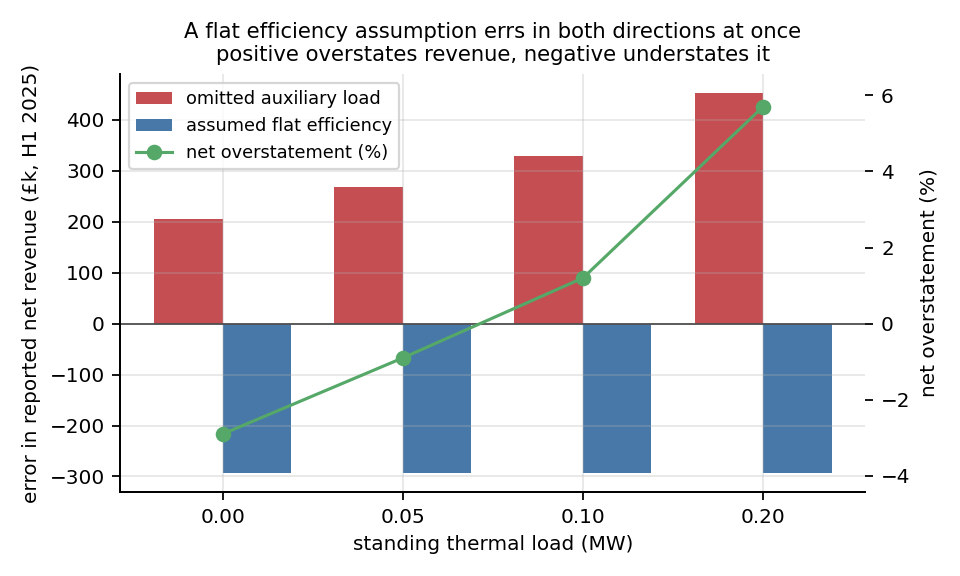
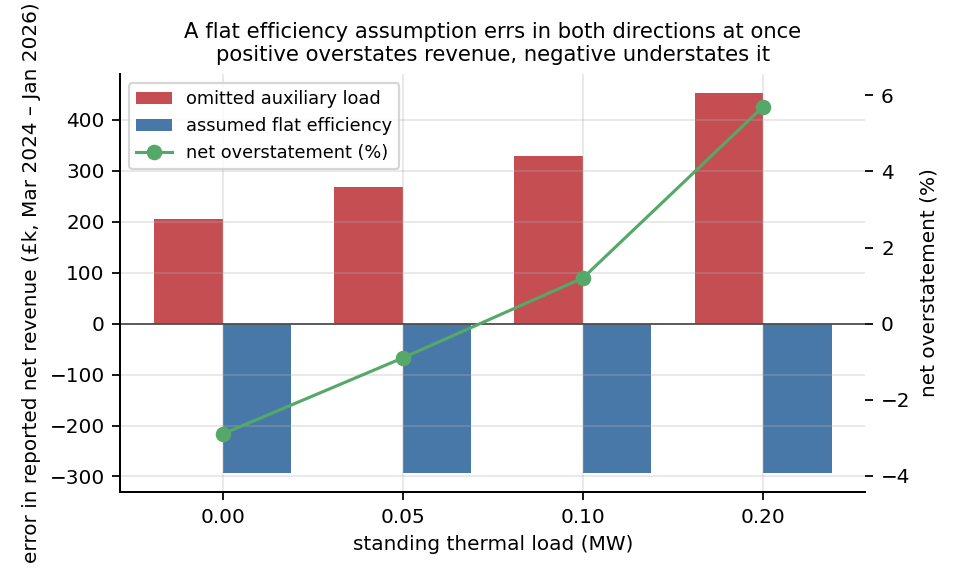
review: observation duration enters the anchor, and the artefacts a changed conclusion leaves
A fresh full review found one substantive omission and one overstated convention, plus
eight places where retracted conclusions were still being asserted.

The German field case was observed for eight years; the anchor used a three-year default.
Under linear ageing that distinction was bookkeeping. Under the power law it is an input:
3 %/yr sustained for eight years is more damage than the model can produce in three, so
the anchor must scale up rather than down, and that row's wear price moves from 15.96 to
20.23 GBP/MWh. Finding 1 widens from 42-59 % to 42-78 %, and the table's lesson sharpens:
the published loss rate barely matters (the Italian and EPRI rows coincide to pennies),
the observation window now does. This also restores provenance to the headline band's
upper point, which had been a hard-coded 20.30 labelled EPRI - a label that silently
expired when the anchoring changed underneath it. The band's second point is now derived
in code from the German eight-year record, and its gross-to-net capture ratio is computed
(1.54) rather than approximated (the 1.60 previously quoted mixed bases).

The declining wear price is reframed as the convention it is. Pricing the capacity each
cycle consumes gives a marginal cost that falls over life; pricing each cycle as an equal
share of the discounted replacement - the natural convention when end of life is a
threshold - gives a constant 11.17, or 14.26 net of calendar fade's claim on the usable
[…]

diff --git a/scripts/make_figures.py b/scripts/make_figures.py
@@ -45,7 +45,7 @@ def fig_waterfall():
     ax.set_ylim(0, steps[0][1] * 1.15)
     ax.set_xticks(range(len(steps)))
     ax.set_xticklabels([s[0] for s in steps], fontsize=8)
-    ax.set_ylabel("£ over 2024–2025")
+    ax.set_ylabel("£ over the 22 months to Jan 2026")
     ax.set_title("What a perfect-foresight number hides\n50 MW / 100 MWh, GB wholesale",
                  fontsize=9.5)
     fig.tight_layout(); fig.savefig(FIG / "waterfall.png"); plt.close(fig)
@@ -99,7 +99,7 @@ def fig_degradation():
     ax.set_xticks(list(x))
     ax.set_xticklabels([s.replace(" field-anchored", "\nfield-anchored").replace(
         "no degradation cost", "ignored") for s in v0.scenario], fontsize=7.5)
-    ax.set_ylabel("net revenue over Q1 2025 (£k)")
+    ax.set_ylabel("net revenue, Mar 2024 – Jan 2026 (£k)")
     ax2.set_ylabel("equivalent full cycles / yr")
     ax.set_title("Pricing degradation changes revenue and behaviour", fontsize=9.5)
     h1, l1 = ax.get_legend_handles_labels(); h2, l2 = ax2.get_legend_handles_labels()
@@ -132,7 +132,7 @@ def fig_efficiency_error():
     ax.set_xticks(list(x))
     ax.set_xticklabels([f"{h:.2f}" for h in v3.hvac_MW])
     ax.set_xlabel("standing thermal load (MW)")
-    ax.set_ylabel("error in reported net revenue (£k, H1 2025)")
+    ax.set_ylabel("error in reported net revenue (£k, Mar 2024 – Jan 2026)")
     ax2.set_ylabel("net overstatement (%)")
     ax.set_title("A flat efficiency assumption errs in both directions at once\n"
                  "positive overstates revenue, negative understates it", fontsize=9.5)
@@ -143,7 +143,7 @@ def fig_efficiency_error():
 
 
 def fig_service_cdeg():
-    """Pricing wear by service decides market entry, not just bookkeeping."""
+    """What pricing wear by service changes about reserve participation."""
     v4 = pd.read_csv(RES / "v4_service_cdeg.csv")
     flat = v4[v4.ageing_ratio == 1.0].sort_values("fr_price")
     diff = v4[v4.ageing_ratio == 1.85].sort_values("fr_price")
@@ -153,16 +153,24 @@ def fig_service_cdeg():
            color="#8172b2", label="one degradation cost for all energy")
     ax.bar([i + 0.19 for i in x], diff.mean_reserve_MW, width=0.38,
            color="#dd8452", label="wear priced by service (1.85×)")
-    # the point of the chart: at the lowest price one model refuses the market outright
-    ax.annotate("declines the\nmarket entirely", xy=(-0.19, 0.4), xytext=(-0.30, 14),
-                fontsize=7.5, ha="center", color="#8172b2",
-                arrowprops=dict(arrowstyle="->", color="#8172b2", lw=0.8))
+    # Annotate the outright-refusal case only when the data actually shows one. This
+    # text was once unconditional, and after a recalibration moved the single-cost bar
+    # from 0.0 to 20.3 MW the figure kept asserting a refusal that no longer existed.
+    if float(flat.mean_reserve_MW.iloc[0]) < 0.5:
+        ax.annotate("declines the\nmarket entirely", xy=(-0.19, 0.4), xytext=(-0.30, 14),
+                    fontsize=7.5, ha="center", color="#8172b2",
+                    arrowprops=dict(arrowstyle="->", color="#8172b2", lw=0.8))
     ax.set_xticks(list(x))
     ax.set_xticklabels([f"£{p:.0f}" for p in flat.fr_price])
     ax.set_xlabel("reserve availability price (£/MW/h)")
     ax.set_ylabel("mean reserve held (MW of 50)")
+    # The title must not outrun the data: at the current wear price both models
+    # participate, and only at a high enough wear price does participation itself flip.
+    flips = float(flat.mean_reserve_MW.iloc[0]) < 0.5
     ax.set_title("Whether the battery enters the reserve market at all\n"
-                 "depends on how its wear is priced", fontsize=9.5)
+                 "depends on how its wear is priced" if flips else
+                 "Pricing reserve wear at its measured lower ageing\n"
+                 "shifts capacity toward reserve and cuts cycling", fontsize=9.5)
     ax.legend(fontsize=8, loc="upper left")
     fig.tight_layout(); fig.savefig(FIG / "service_cdeg.png"); plt.close(fig)
     print("figures/service_cdeg.png")

diff --git a/scripts/v0_arbitrage.py b/scripts/v0_arbitrage.py
@@ -43,16 +43,21 @@ def main(start: str, end: str):
     # Italian plant reports both (356 EFC over three years to 95.88 % SoH). The German
     # and EPRI cases give a rate without a cycle count, so they enter as sensitivity
     # under an assumed 300 EFC/yr and are labelled as such rather than as calibration.
-    scenarios = [(None, None, "no degradation cost"),
-                 (0.0137, 118.7, "Italian field pair, 1.37 %/yr at 119 EFC"),
-                 (0.023, 300.0, "EPRI 2.3 %/yr, EFC assumed 300"),
-                 (0.03, 300.0, "German upper 3 %/yr, EFC assumed 300")]
-    for loss, efc, label in scenarios:
+    # Each anchor case carries its observation duration, because with sub-linear
+    # ageing the duration is a real input, not bookkeeping: the same 3 %/yr sustained
+    # for eight years implies more damage than the model can produce in three, so the
+    # anchor scale — and c_deg — moves with it. The German systems were observed for
+    # eight years (doi:10.5281/zenodo.12091223); the EPRI duration is an assumption.
+    scenarios = [(None, None, None, "no degradation cost"),
+                 (0.0137, 118.7, 3.0, "Italian field pair, 1.37 %/yr at 119 EFC"),
+                 (0.023, 300.0, 3.0, "EPRI 2.3 %/yr, EFC and 3-yr duration assumed"),
+                 (0.03, 300.0, 8.0, "German upper 3 %/yr over its 8-yr observation, EFC assumed 300")]
+    for loss, efc, yrs, label in scenarios:
         if loss is None:
             c_deg = 0.0
         else:
             dc = DegradationCost(cell_model="prismatic_250ah", field_annual_loss=loss,
-                                 field_efc_per_year=efc)
+                                 field_efc_per_year=efc, field_years=yrs)
             c_deg = dc.cost("arbitrage")
         cfg = DispatchConfig(c_deg_arbitrage=c_deg, allow_frequency=False,
                              )
@@ -89,6 +94,24 @@ def main(start: str, end: str):
         inputs.append({"variant": name,
                        "c_deg": round(DegradationCost(cell_model="prismatic_250ah", **kw)
                                       .cost("arbitrage"), 2)}) 
+    # The marginal-capacity convention used throughout is itself a choice, so the main
+    # alternative is computed rather than argued. Pricing each cycle as an equal share
+    # of the discounted replacement — the natural convention when end of life is a
+    # threshold — gives a *constant* c_deg; netting the calendar share of the usable
+    # window out of the cycle budget raises it. All three integrate to the same total
+    # over the asset's life; they differ only in when the cost is charged.
+    d0 = DegradationCost(cell_model="prismatic_250ah")
+    disc = d0.replacement_cost_per_mwh / (1 + d0.discount_rate) ** d0.expected_life_years
+    m0 = d0._model()
+    n_eol = d0.implied_cycle_life()
+    inputs.append({"variant": "convention: equal share of replacement per cycle (constant)",
+                   "c_deg": round(disc / (n_eol * d0.REF_DOD), 2)})
+    cal_life = (d0.anchor_factor() * m0.calendar_rate(d0.REF_T_KELVIN, 0.5)
+                * (d0.expected_life_years * 365.25) ** m0.p_cal)
+    k_anch = d0.anchor_factor() * m0.cycle_rate(d0.REF_DOD, d0.REF_C_RATE, d0.REF_T_KELVIN)
+    n_eff = ((max((1 - d0.eol_fraction) - cal_life, 1e-6)) / k_anch) ** (1.0 / m0.p_cyc)
+    inputs.append({"variant": "same, cycle budget net of calendar fade over the assumed life",
+                   "c_deg": round(disc / (n_eff * d0.REF_DOD), 2)})
     pd.DataFrame(inputs).to_csv(OUT / "v0_cdeg_inputs.csv", index=False)
     lo = min(x["c_deg"] for x in inputs)
     hi = max(x["c_deg"] for x in inputs)

diff --git a/scripts/v2_capture_rate.py b/scripts/v2_capture_rate.py
@@ -143,18 +143,31 @@ def main(start: str, end: str):
     # v0 uses are carried through here rather than left implied.
     print("\nheadline sensitivity to the degradation price")
     band = []
+    # The second point is the highest wear price a field case supports: the German
+    # systems' upper 3 %/yr sustained over their eight-year observation window. It is
+    # derived here from the same anchoring code as everything else, not hard-coded —
+    # an earlier version carried a number whose provenance had silently expired when
+    # the anchoring changed underneath it.
+    dc_hi = DegradationCost(cell_model="prismatic_250ah", field_annual_loss=0.03,
+                            field_efc_per_year=300.0, field_years=8.0)
     for label, c in (("Italian field pair", c_arb),
-                     ("EPRI 2.3 %/yr, EFC assumed 300", 20.30)):
+                     ("German upper 3 %/yr over 8-yr observation", dc_hi.cost("arbitrage"))):
         cfg_b = DispatchConfig(c_deg_arbitrage=c, allow_frequency=False)
         pf_b = backtest(base, batt, cfg_b, None)
         gb_b = backtest(base, batt, cfg_b, "fc_gbm")
+        cap_n = gb_b["revenue_net"] / pf_b["revenue_net"] * 100
+        cap_g = gb_b["revenue_energy"] / pf_b["revenue_energy"] * 100
         band.append({"scenario": label, "c_deg": round(c, 2),
                      "pf_gross_GBP": round(pf_b["revenue_energy"]),
+                     "gbm_gross_GBP": round(gb_b["revenue_energy"]),
                      "gbm_net_GBP": round(gb_b["revenue_net"]),
                      "overstatement_factor": round(pf_b["revenue_energy"] / gb_b["revenue_net"], 2),
-                     "capture_net_pct": round(gb_b["revenue_net"] / pf_b["revenue_net"] * 100, 1)})
+                     "capture_gross_pct": round(cap_g, 1),
+                     "capture_net_pct": round(cap_n, 1),
+                     "gross_to_net_capture_ratio": round(cap_g / cap_n, 2)})
         print(f"  c_deg {c:5.2f}  gross {pf_b['revenue_energy']:>11,.0f}  net {gb_b['revenue_net']:>10,.0f}"
-              f"  factor {band[-1]['overstatement_factor']:5.2f}x  capture {band[-1]['capture_net_pct']:4.1f}%")
+              f"  factor {band[-1]['overstatement_factor']:5.2f}x  capture {cap_g:4.1f}%/{cap_n:4.1f}%"
+              f"  ratio {band[-1]['gross_to_net_capture_ratio']:.2f}")
 
     res = pd.DataFrame(rows)
     res.to_csv(OUT / "v2_capture_rate.csv", index=False)

diff --git a/src/bess/degradation/blast_lfp.py b/src/bess/degradation/blast_lfp.py
@@ -279,6 +279,20 @@ class DegradationCost:
     # 3000. A single number has to name a point on that curve; 1000 EFC is roughly
     # mid-life for an asset cycling a few hundred times a year, and v0 sweeps it.
     #
+    # That declining shape is itself a convention, not a fact. It prices the capacity
+    # consumed by each cycle. The equally defensible alternative — natural when end of
+    # life is a threshold — prices every cycle as an equal share of the discounted
+    # replacement, which is *constant* over life: about 11.2 GBP/MWh here, or 14.3 once
+    # the calendar share of the usable window is netted out of the cycle budget. All
+    # three integrate to the same lifetime total and bracket the value used; v0 writes
+    # them into results/v0_cdeg_inputs.csv so the choice is visible, not buried.
+    #
+    # One more mismatch the anchor scale silently absorbs, alongside the chemistry gap:
+    # the reference operating point (dod 0.9, C-rate 0.5) is not the Italian plant's
+    # actual duty, which was shallow, slow PV-smoothing — below the prismatic model's
+    # own fitted dod range. The anchor is therefore a like-for-like match on *total
+    # loss*, not on operating conditions.
+    #
     # What the anchor does *not* do is make c_deg a measured quantity. It is
     #     replacement_cost * discount_factor * marginal_loss / usable / dod
     # and only the field pair inside marginal_loss is observed. The other inputs are

diff --git a/README.md b/README.md
@@ -10,7 +10,7 @@ March 2024 to January 2026, every finding on the same asset and the same window.
 
 | # | shortcut | what it costs | the catch |
 |---|---|---|---|
-| 1 | pricing wear at zero | overstates net revenue **42–59 %**, and implies 729 full cycles a year against 451 | the wear price is a four-input calculation and only one input is measured |
+| 1 | pricing wear at zero | overstates net revenue **42–78 %**, and implies 729 full cycles a year against 346–451 | the wear price is a four-input calculation and only one input is measured |
 | 2 | no state-of-charge headroom for reserve | overstates **3–15 %** — at £2/MW/h it commits 40.1 MW of reserve against 26.5 MW it could deliver | reserve prices here are a synthetic sweep, not market data |
 | 3 | assuming you can forecast | a real forecast captures **60 % of gross margin but only 48 % of net** | the gap is real but modest; it widens as the wear price rises, so it is a claim about degradation-aware models, not about forecasting |
 | 4 | one flat round-trip efficiency | **the two errors inside it have opposite signs and mostly cancel** — with no thermal load the flat assumption is 2.9 % *low*, and what overstatement remains (to 5.7 %) is entirely the auxiliary load | holds for a 2-hour asset discharging at 86 % of rated; a longer-duration asset may flip it |
@@ -31,10 +31,11 @@ a **wholesale-only strategy indexed to the half-hourly reference price** — a r
 battery also trades the day-ahead auction, where the clearing price is known at gate
 closure and forecast error costs far less, so £0.38m is the achievable revenue of the
 forecast-dependent leg, not of the asset. And the size of the gap is set by how wear is
-priced: **2.8× at the field-anchored £12.1/MWh, 4.1× at £20.3/MWh**. A factor of three to
-four, with the degradation price as the dominant input, is the honest headline. The top bar
-is itself the gross margin of a schedule that already prices degradation; a model ignoring
-wear entirely would cycle 729 times a year and print £4.17m.
+priced: **2.8× at the field-anchored £12.1/MWh, 4.1× at the £20.2/MWh implied by the
+German systems' eight-year record**. A factor of three to four, with the degradation price
+as the dominant input, is the honest headline. The top bar is itself the gross margin of a
+schedule that already prices degradation; a model ignoring wear entirely would cycle 729
+times a year and print £4.17m.
 
 This is a controlled experiment on one asset in one market, not a survey. The shortcuts
 are shown to be *costly* here and shown to be *common* by citation — see How this relates
@@ -48,15 +49,16 @@ wider spreads, so choosing a quarter per finding would let each effect be report
 most flattering. Doing the opposite turned out to strengthen the results rather than
 soften them.
 
-**1. Ignoring degradation cost overstates arbitrage revenue by 42–59 % and implies
+**1. Ignoring degradation cost overstates arbitrage revenue by 42–78 % and implies
 cycling no owner would accept.**
 
 A degradation cost cannot be set from an annual loss rate alone: the same 2 %/yr means
-a very different cost per MWh depending on how hard the asset was cycled to get there.
-Only one public field case reports both — an Italian utility-scale plant, 356
-equivalent full cycles over three years to 95.9 % state of health, so 119 EFC/yr at
-1.37 %/yr. The other field cases give a rate without a cycle count and enter as
-sensitivity under an assumed 300 EFC/yr, labelled as such rather than as calibration.
+a very different cost per MWh depending on how hard the asset was cycled to get there —
+and, with sub-linear ageing, on how long the rate was observed. Only one public field
+case reports the full triple — an Italian utility-scale plant, 356 equivalent full cycles
+over three years to 95.9 % state of health, so 119 EFC/yr at 1.37 %/yr. The other field
+cases enter as sensitivity under an assumed 300 EFC/yr, with their observation windows
+carried where the source states one, and are labelled as such rather than as calibration.
 
 **What "field-anchored" does and does not mean.** At the reference operating point the
 cost reduces to a closed form in four inputs — replacement cost, discount factor, the
@@ -80,17 +82,23 @@ it would move every magnitude here toward the smaller end.
 | degradation assumption | c_deg (£/MWh) | net revenue (£) | £/MW/yr | cycles/yr |
 |---|---|---|---|---|
 | ignored, as in many public models | 0 | 4,169,625 | 45,295 | 729 |
-| Italian field pair (1.37 %/yr at 119 EFC) | 12.1 | 2,934,034 | 31,873 | 451 |
-| EPRI 2.3 %/yr, EFC assumed 300 | 12.2 | 2,922,049 | 31,743 | 449 |
-| German upper 3 %/yr, EFC assumed 300 | 16.0 | 2,631,192 | 28,583 | 400 |
+| Italian field pair (1.37 %/yr at 119 EFC, 3 yr) | 12.1 | 2,934,034 | 31,873 | 451 |
+| EPRI 2.3 %/yr — EFC and 3-yr duration assumed | 12.2 | 2,922,049 | 31,743 | 449 |
+| German upper 3 %/yr over its 8-yr observation — EFC assumed | 20.2 | 2,338,253 | 25,401 | 346 |
 
 ![degradation](figures/degradation.png)
 
 729 equivalent full cycles per year is two a day, every day, for two years. Pricing the
-wear cuts cycling by 38–45 % and removes 42–59 % of the revenue. Note how little the three
-rows now differ: once the anchor scales calendar and cycle ageing together, two field cases
-with very different headline loss rates imply almost the same marginal cost per cycle.
-The spread between published field degradation rates matters far less than it appears to.
+wear cuts cycling by 38–53 % and removes 42–78 % of the revenue.
+
+Two things about that table are easy to miss. The Italian and EPRI rows land within
+pennies of each other despite headline loss rates of 1.37 and 2.3 %/yr — once the anchor
+scales calendar and cycle ageing together, the published *rate* matters far less than it
+appears to. What does matter, now that ageing is sub-linear, is the **observation
+duration**: the German row is higher not because its rate is higher but because 3 %/yr
+sustained for eight years is more damage than the model can produce in three, so the
+anchor must scale it up. An earlier version used a three-year default for every row,
+which understated the German case by a quarter.
 
 **2. Omitting the state-of-charge headroom constraint overstates net revenue by
 3–15 %, by selling reserve the battery could not have delivered.**
@@ -113,8 +121,8 @@ availability.
 | 10 | 8,552,049 | 9,266,521 | 8.4 % | 45.8 → 44.4 |
 | 20 | 16,203,677 | 16,681,857 | 3.0 % | 48.4 → 47.1 |
 
-The clearest case is £2/MW/h, where the model without the constraint commits nearly twice
-the reserve it can back with energy — 40.1 MW against a deliverable 26.5 MW. The revenue
+The clearest case is £2/MW/h, where the model without the constraint commits half as much
+reserve again as it can back with energy — 40.1 MW against a deliverable 26.5 MW. The revenue
 error is largest at £2–5, where the battery must genuinely choose between markets, and at £10–20 availability pays so well that both arms saturate; the two rows where
 adding the constraint slightly *raises* mean reserve are a rescheduling effect, not a
 solver artefact — the constrained problem shifts when it charges in order to keep
@@ -143,9 +151,10 @@ margin twice, once in the trade and again in the wear spent chasing it.
 
 **How big that gap is depends almost entirely on the wear price, which makes this a
 weaker claim than it first appears.** At the field-anchored £12.1/MWh the gross-to-net
-capture ratio is 1.24; at £20.3/MWh it is 1.60. An earlier, incorrect wear price of
-£30.6/MWh put it at 2.5, which was dramatic and wrong. The mechanism is real and its
-direction is not in doubt, but anyone quoting a magnitude has to quote the c_deg with it.
+capture ratio is 1.24; at the German-record £20.2/MWh it is 1.54 (both computed, in
+`results/v2_cdeg_band.csv`). An earlier, incorrect wear price of £30.6/MWh put it at 2.5,
+which was dramatic and wrong. The mechanism is real and its direction is not in doubt,
+but anyone quoting a magnitude has to quote the c_deg with it.
 
 ![transmission](figures/transmission.png)
 
@@ -283,12 +292,18 @@ a total loss by a cycle-only model term, prices calendar fade as though trading 
 It does not: a battery ages on the shelf, so calendar fade is a cost of ownership and only
 the cycle term belongs in a cost per MWh.
 
-Because the cycle exponent is below one, **c_deg is not a constant** — the marginal wear
-of one more cycle falls from about £15.4/MWh at 250 cumulative cycles to £10.0 at 3000.
-The £12.1 used throughout is that curve at 1000 cycles, roughly mid-life for this asset,
-and the implied cycle life of 4,740 to 80 % capacity is inside what large-format LFP is
-warranted for — which is the sanity check that first exposed the missing exponents, since
-reading them as linear rates implied 911.
+Because the cycle exponent is below one, the marginal wear of one more cycle falls over
+life — from about £15.4/MWh at 250 cumulative cycles to £10.0 at 3000 — and the £12.1 used
+throughout is that curve at 1000 cycles, roughly mid-life for this asset. **The declining
+shape is a convention, not a fact.** It prices the capacity each cycle consumes; the
+equally defensible alternative, natural when end of life is a threshold, prices every
+cycle as an equal share of the discounted replacement and is *constant*: £11.2/MWh here,
+or £14.3 once calendar fade's share of the usable window is netted out of the cycle
+budget. All three integrate to the same lifetime total, all three sit within a few pounds
+of each other, and `results/v0_cdeg_inputs.csv` carries them side by side. The implied
+cycle life of 4,740 to 80 % capacity is inside what large-format LFP is warranted for —
+the sanity check that first exposed the missing exponents, since reading them as linear
+rates implied 911.
 
 **Auxiliary consumption is separated by where it actually arises, and kept out of the
 efficiency curve.** The load-independent loss inside the AC round-trip curve (0.69 MW,
@@ -350,11 +365,11 @@ On the individual layers:
 | Cornejo et al. (2025), ISGT Europe, doi:10.1109/ISGTEurope64741.2025.11305340 | putting a non-linear equivalent-circuit loss model inside an MPC is worth 0.4 / 1.9 / 3.8 % at internal-resistance multipliers of 1 / 2 / 3 | verified against the paper's own Figure 2 and Table II; SOH_R is an internal-resistance multiplier, so 1.0 is a fresh cell and 3.0 a second-life one. The comparable fresh-asset figure is 0.4 %, against 4.2–4.6 % here — the gap is the calibration basis, not the mechanism (see Status) |
 | Gatta et al. (2015), IEEE PowerTech, doi:10.1109/PTC.2015.7232464 | auxiliary loads are "usually disregarded in studies concerning BESS integration" | supplies the prevalence evidence for finding 4 rather than asserting it |
 | Schimpe et al. (2018), Applied Energy 210, 211–229 | 18 loss mechanisms in a container system; power-electronic losses exceed cell losses at low operating power | the mechanism behind the curve shape used here |
-| Gale et al. (2026), J. Energy Storage 166, 122328 | GB balancing-market access is worth £166,123/MW/yr against £47,234/MW/yr for wholesale alone — but the first figure assumes unconstrained BM access, and the paper notes real batteries skip over 90 % of instructions and that a commercial GB battery earned £101k/MW/yr from all sources in 2023; revenue falls about £12,000/MW/yr per 10 points of skip rate | the sharpest disagreement in this table, and the best prevalence evidence for finding 1: it prices wear at £0.50/MWh and argues explicitly that "the insensitivity of results to our economic proxy for degradation lends support to not needing to model degradation" — a 2026, GB, open-access paper taking the exact shortcut finding 1 measures, at 1/61 of the cost used here. Its wholesale-only figure is also the closest published like-for-like revenue comparison, used as such below |
+| Gale et al. (2026), J. Energy Storage 166, 122328 | GB balancing-market access is worth £166,123/MW/yr against £47,234/MW/yr for wholesale alone — but the first figure assumes unconstrained BM access, and the paper notes real batteries skip over 90 % of instructions and that a commercial GB battery earned £101k/MW/yr from all sources in 2023; revenue falls about £12,000/MW/yr per 10 points of skip rate | the sharpest disagreement in this table, and the best prevalence evidence for finding 1: it prices wear at £0.50/MWh and argues explicitly that "the insensitivity of results to our economic proxy for degradation lends support to not needing to model degradation" — a 2026, GB, open-access paper taking the exact shortcut finding 1 measures, at 1/24 of the cost used here. Its wholesale-only figure is also the closest published like-for-like revenue comparison, used as such below |
 | Vykhodtsev et al. (2022), Renewable and Sustainable Energy Reviews 166, 112584 | taxonomy of battery models used in techno-economic analysis | classifies the modelling choices without quantifying what they cost, which is the gap addressed here |
 
 **Reconciling finding 3 with Falezza (2026).** That paper reports near-complete capture
-at high forecast skill; the LightGBM arm here captures 21 % of net revenue. The numbers
+at high forecast skill; the LightGBM arm here captures 48 % of net revenue. The numbers
 are not in conflict because they measure different assets in different markets: a
 10 MW / 10 MWh unit across FCR, aFRR, day-ahead and intraday in DE/CH, where the reserve
 capacity payments do not depend on a price forecast at all, against a 50 MW / 100 MWh
@@ -484,11 +499,11 @@ with an 11.6× difference return identical costs is visible only by evaluating b
 
 ```bash
 pip install -r requirements.txt
-PYTHONPATH=src python3 scripts/v0_arbitrage.py        2025-01-01 2025-03-31
-PYTHONPATH=src python3 scripts/v1_reserve_headroom.py 2025-01-01 2025-03-31
+PYTHONPATH=src python3 scripts/v0_arbitrage.py        2024-03-01 2026-01-01
+PYTHONPATH=src python3 scripts/v1_reserve_headroom.py 2024-03-01 2026-01-01
 PYTHONPATH=src python3 scripts/v2_capture_rate.py     2024-01-01 2025-12-31
-PYTHONPATH=src python3 scripts/v3_converter_efficiency.py       2025-01-01 2025-06-30
-PYTHONPATH=src python3 scripts/v4_service_differentiated_cdeg.py 2025-01-01 2025-06-30
+PYTHONPATH=src python3 scripts/v3_converter_efficiency.py        2024-03-01 2026-01-01
+PYTHONPATH=src python3 scripts/v4_service_differentiated_cdeg.py 2024-03-01 2026-01-01
 PYTHONPATH=src python3 scripts/verify.py
 PYTHONPATH=src python3 scripts/make_figures.py
 ```
